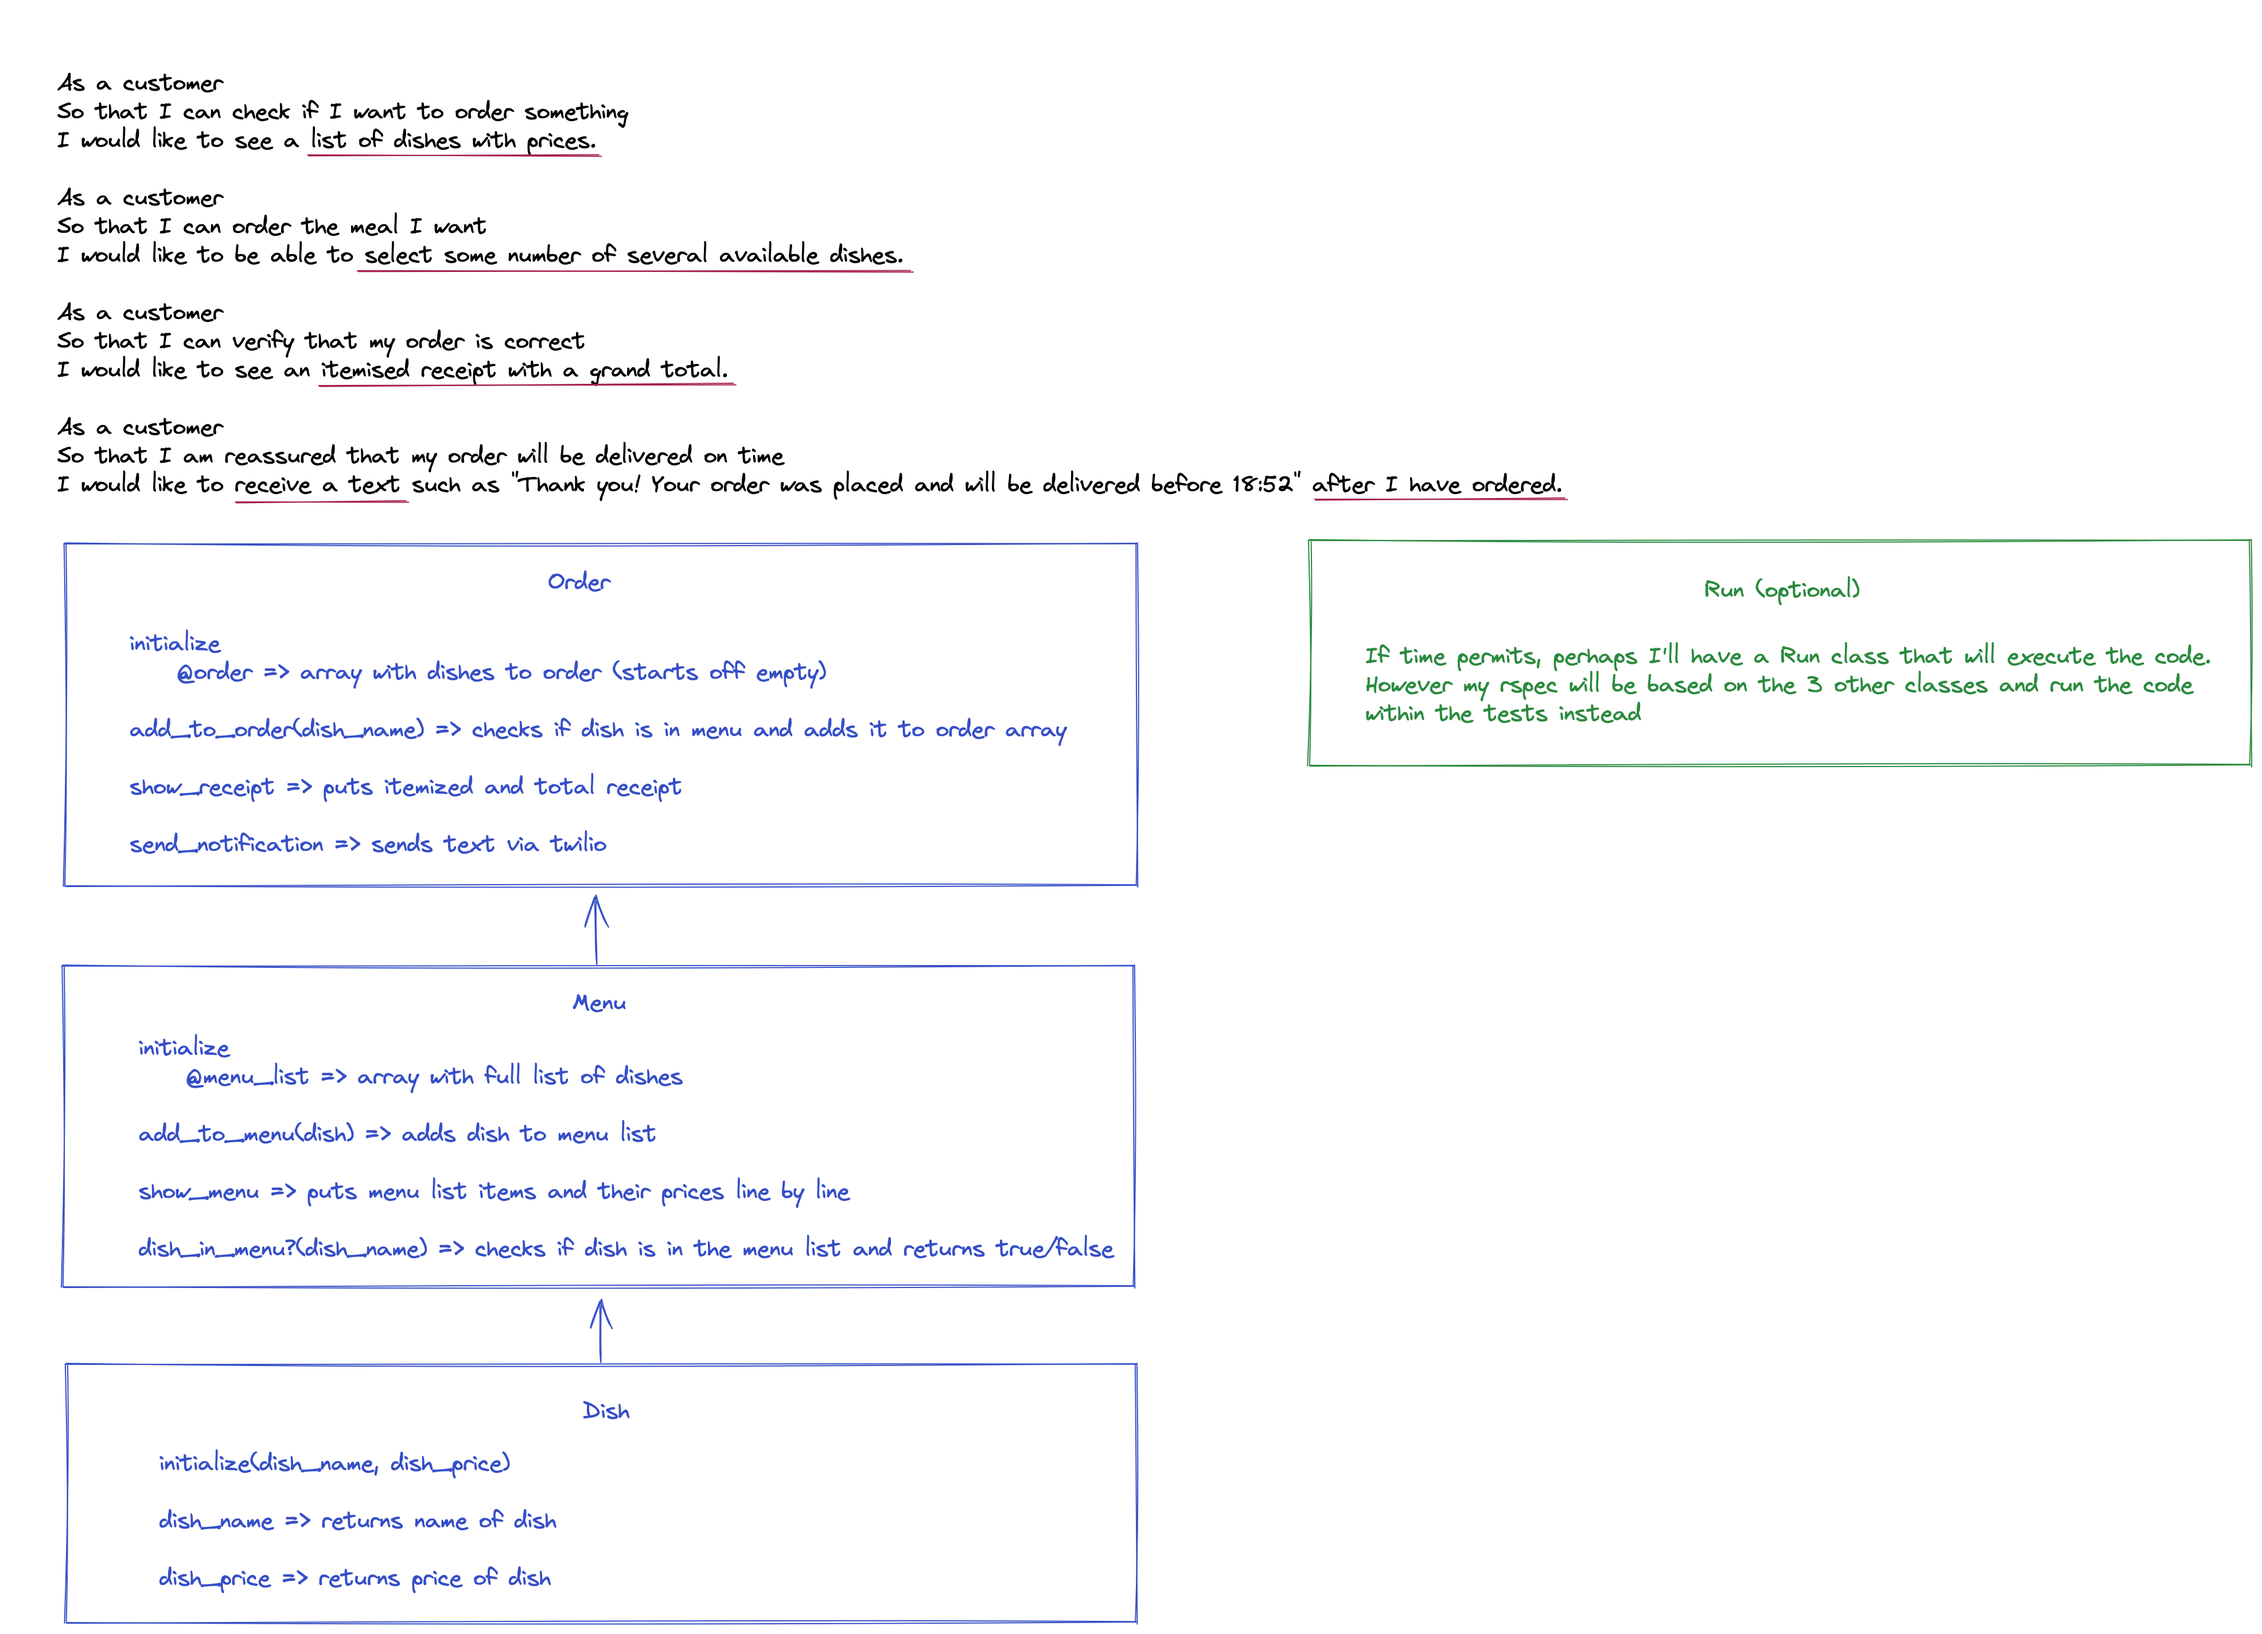
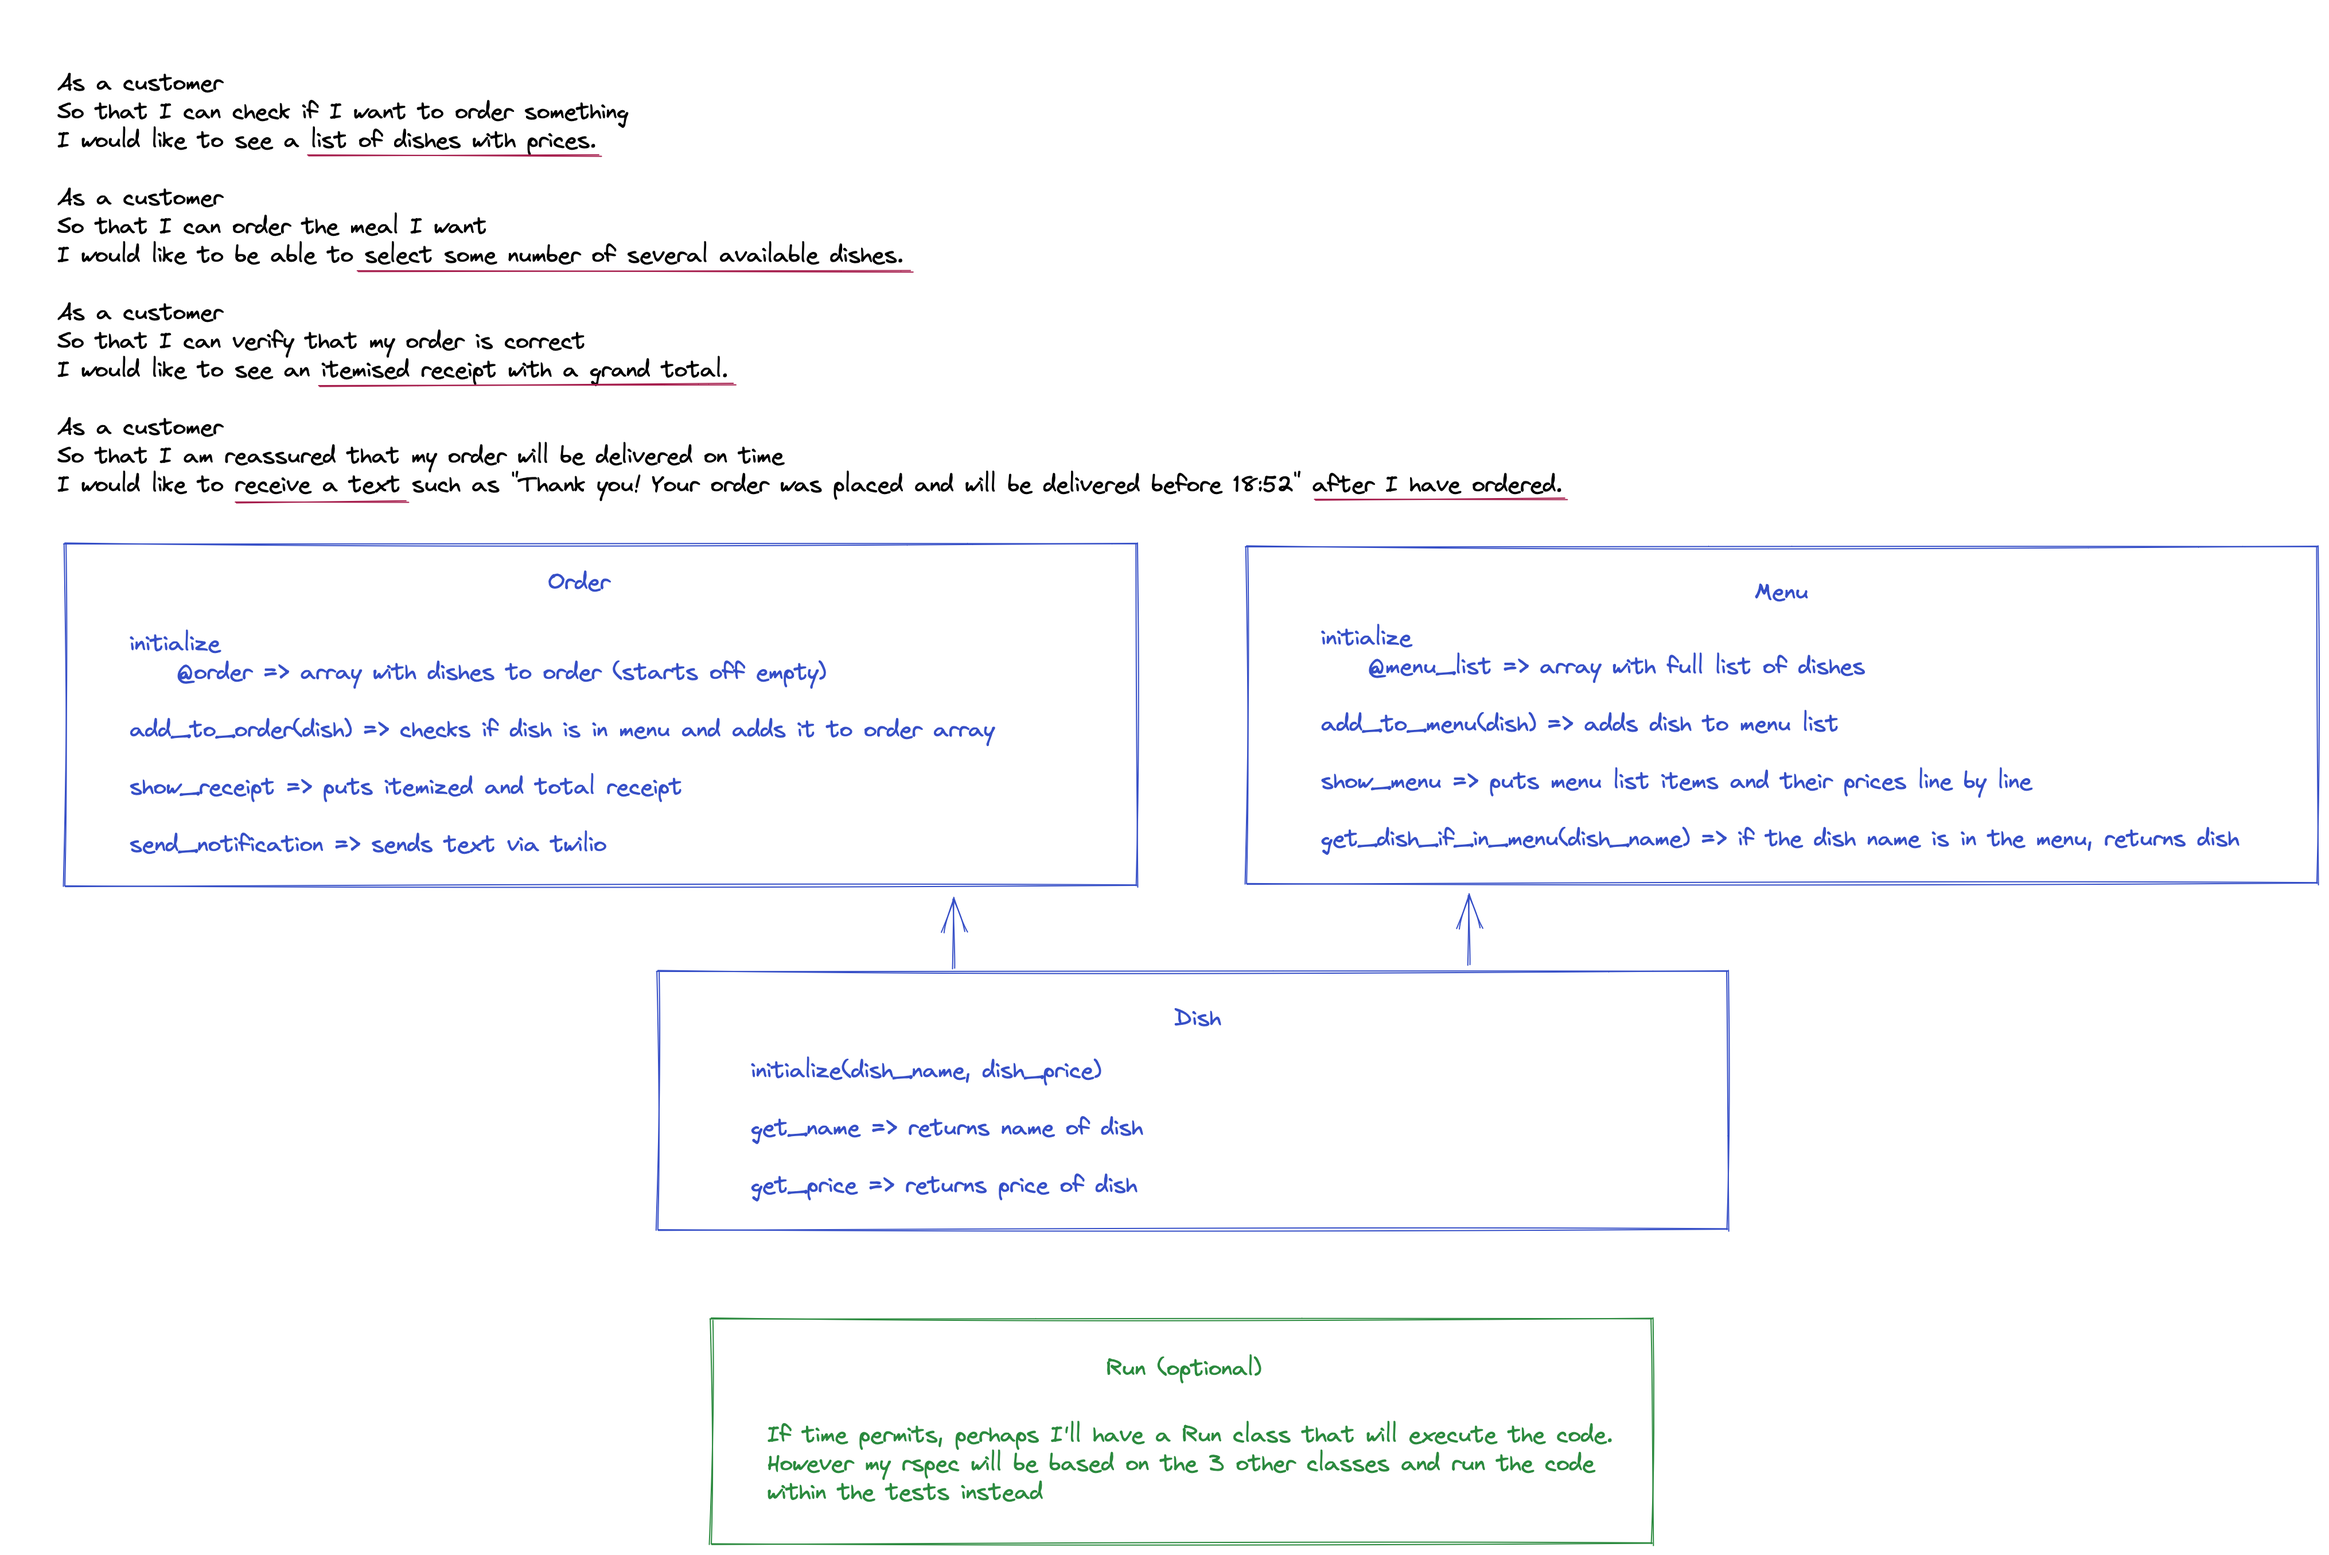
all green tests for integration testing creating an order - adding 1 dish and showing itemized and total receipt

diff --git a/project-takeaway/spec/order_integration_spec.rb b/project-takeaway/spec/order_integration_spec.rb
@@ -6,7 +6,7 @@ RSpec.describe "Order & Menu integration tests" do
   context "Creating a menu" do
     describe "Adds dishes to the menu and shows the menu" do
       it "Creates 1 dish, adds it, and shows it" do
-        edamame = Dish.new("edamame", "£2")
+        edamame = Dish.new("edamame", 2)
         menu = Menu.new
         menu.add_to_menu(edamame)
         expect { menu.show_menu }.to output("edamame: £2\n").to_stdout
@@ -19,34 +19,36 @@ RSpec.describe "Order & Menu integration tests" do
     end
 
     describe "Checks if dish is in the menu_list" do
-      it "Returns true when finding an existing dish" do
-        edamame = Dish.new("edamame", "£2")
+      it "Returns dish when finding an existing dish name" do
+        edamame = Dish.new("edamame", 2)
         menu = Menu.new
         menu.add_to_menu(edamame)
-        expect(menu.dish_in_menu?("edamame")).to eq true
+        expect(menu.get_dish_if_in_menu("edamame")).to eq edamame
       end
 
-      it "Returns false when not finding and inexistent dish" do
+      it "Returns nil when not finding and inexistent dish" do
         menu = Menu.new
-        expect(menu.dish_in_menu?("edamame")).to eq false
+        expect(menu.get_dish_if_in_menu("edamame")).to eq nil
       end
 
       it "Fails if trying to enter a dish_name that is not a String" do
-        edamame = Dish.new("edamame", "£2")
+        edamame = Dish.new("edamame", 2)
         menu = Menu.new
-        expect { menu.dish_in_menu?(edamame) }.to raise_error "Dish name should be entered as a string"
+        expect { menu.get_dish_if_in_menu(edamame) }.to raise_error "Dish name should be entered as a string"
       end
     end
   end
 
   context "Creating an order" do
     describe "Adds dishes to order and shows a receipt" do
-      it "Adds dish to order if it exists on the menu" do
-        edamame = Dish.new("edamame", "£2")
+      it "Adds 1 dish to order and shows itemized and total in receipt" do
+        edamame = Dish.new("edamame", 2)
         menu = Menu.new
+        menu.add_to_menu(edamame)
         order = Order.new
-        order.add_to_order(edamame)
-        expect { order.show_receipt }.to output("edamame: £2\n total: £2\n").to_stdout
+        dish = menu.get_dish_if_in_menu("edamame")
+        order.add_to_order(dish)
+        expect { order.show_receipt }.to output("edamame: £2\ntotal: £2\n").to_stdout
       end
     end
   end

diff --git a/project-takeaway/lib/menu.rb b/project-takeaway/lib/menu.rb
@@ -12,13 +12,13 @@ class Menu
 
   def show_menu
     @menu_list.each { |dish| 
-      puts "#{dish.get_name}: #{dish.get_price}"
+      puts "#{dish.get_name}: £#{dish.get_price}"
     }
   end
 
-  def dish_in_menu?(dish_name)
+  def get_dish_if_in_menu(dish_name)
     fail "Dish name should be entered as a string" unless dish_name.is_a? String
-    @menu_list.each { |dish| return true if dish.get_name == dish_name }
-    return false
+    @menu_list.each { |dish| return dish if dish.get_name == dish_name }
+    return nil
   end
 end

diff --git a/project-takeaway/lib/order.rb b/project-takeaway/lib/order.rb
@@ -2,4 +2,17 @@ class Order
   def initialize
     @order = []
   end
+
+  def add_to_order(dish)
+    @order << dish
+  end
+
+  def show_receipt
+    total = 0
+    @order.each { |dish| 
+      puts "#{dish.get_name}: £#{dish.get_price}"
+      total += dish.get_price
+    }
+    puts "total: £#{total}"
+  end
 end
